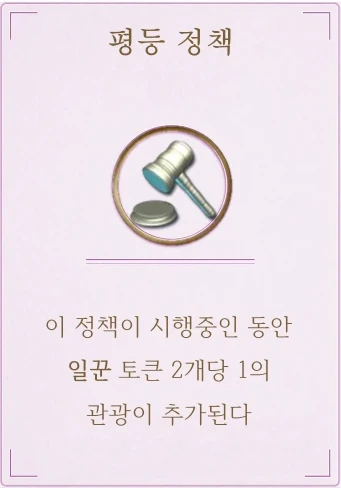
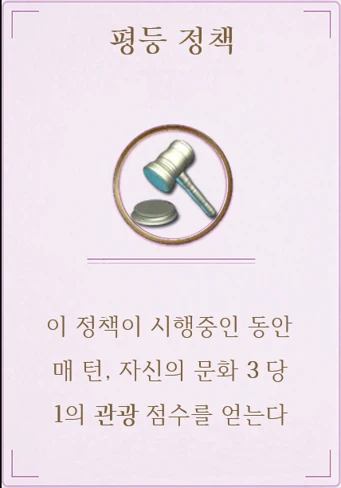
평등 정책: 문화 3당 관광 1 (카드 반영), 카드 그림 교체, AI 계산 수정
Claude-Session: https://claude.ai/code/session_01RAyYJg3yqsP1EQBtC7udPM

diff --git a/src/engine/__tests__/stage2.test.ts b/src/engine/__tests__/stage2.test.ts
@@ -1,5 +1,5 @@
 import { describe, expect, it } from 'vitest'
-import { apply, createGame, culture, happiness, tourism, computeYields, totalWorkers, RuleError, WONDER_CARDS, TECHS } from '..'
+import { apply, createGame, culture, happiness, tourism, computeYields, RuleError, WONDER_CARDS, TECHS } from '..'
 import type { GameState, TileCard } from '..'
 import { found, me, play, startGame, tile } from './helpers'
 
@@ -103,12 +103,11 @@ describe('정책', () => {
     expect(computeYields(me(kp)).science - computeYields(me(k)).science).toBe(5)
   })
 
-  it('평등: 일꾼 2개당 관광 1', () => {
+  it('평등: 문화 3당 관광 1', () => {
     const s = mod(solo(), (c) => {
       c.players[0].policy = 'equality'
-      c.players[0].cities[0].workers = 5
     })
-    expect(tourism(me(s))).toBe(2)
+    expect(tourism(me(s))).toBe(Math.floor(culture(me(s)) / 3))
   })
 
   it('세계화·냉각기술: 문화 3당 관광 1씩', () => {
@@ -116,7 +115,7 @@ describe('정책', () => {
     const third = Math.floor(culture(me(s)) / 3)
     expect(tourism(me(s))).toBe(2 * third)
     s = mod(s, (c) => (c.players[0].policy = 'equality'))
-    expect(tourism(me(s))).toBe(2 * third + Math.floor(totalWorkers(me(s)) / 2))
+    expect(tourism(me(s))).toBe(3 * third)
   })
 })
 

diff --git a/src/engine/ai.ts b/src/engine/ai.ts
@@ -104,7 +104,7 @@ function lateGame(p: Player, s?: GameState): 'apollo' | 'culture' | null {
   let viable = true
   if (s) {
     const rivals = s.players.filter((o) => o.id !== p.id && !o.eliminated && o.cities.length > 0)
-    const reach = 2 * Math.floor(culture(p) / 3) + Math.floor(totalWorkers(p) / 2) + AI_TUNE.cultureSlack
+    const reach = 3 * Math.floor(culture(p) / 3) + AI_TUNE.cultureSlack // 세계화·냉각기술·평등이 각각 문화 3당 1
     viable = rivals.length > 0 && Math.max(...rivals.map((o) => culture(o))) < reach
   }
   const cultureOk = AI_TUNE.cultureRush > 0 && culturePath <= AI_TUNE.cultureRush && viable
@@ -249,7 +249,7 @@ function policyOrder(s: GameState, p: Player): Policy[] {
   const need = Math.max(cheapest, AI_TUNE.policyNeed)
   // 평등 한 번으로 관광이 상대의 문화를 넘어 탈락시킬 수 있으면 (아폴로 질주 중이어도) 평등
   if (p.policy !== 'equality') {
-    const gain = Math.floor(totalWorkers(p) / 2)
+    const gain = Math.floor(culture(p) / 3)
     const now = tourism(p)
     if (s.players.some((o) => o.id !== p.id && !o.eliminated && o.cities.length > 0 && culture(o) >= now && culture(o) < now + gain)) return ['equality', ...POLICY_PREFERENCE]
   }

diff --git a/src/engine/yields.ts b/src/engine/yields.ts
@@ -127,10 +127,10 @@ export function happiness(player: Player): number {
   return civ.happiness + luxuries.size + bonus
 }
 
-/** 턴당 관광: 평등(일꾼 2개당 1), 세계화·냉각기술(문화 3당 1), 루브르 +3, 에펠탑 +4 (프랑스는 불가사의 관광 2배). */
+/** 턴당 관광: 평등(문화 3당 1), 세계화·냉각기술(문화 3당 1), 루브르 +3, 에펠탑 +4 (프랑스는 불가사의 관광 2배). */
 export function tourism(player: Player): number {
   let t = 0
-  if (player.policy === 'equality') t += Math.floor(totalWorkers(player) / 2)
+  if (player.policy === 'equality') t += Math.floor(culture(player) / 3)
   for (const tech of TECHS) {
     if (!player.techs.includes(tech.id)) continue
     for (const e of tech.effects) {

diff --git a/docs/rules.md b/docs/rules.md
@@ -446,7 +446,7 @@
 
   합리주의         시행 중에는 매 차례 과학 3을 얻습니다
 
-  평등             시행 중에는 일꾼 2개당 관광 1을 얻습니다
+  평등             시행 중에는 매 턴 자신의 문화 3당 관광 1을 얻습니다
 
   외교             고를 때마다 내 원래 타일 위의 상대 위대한 장군 토큰
                    1개를 골라 파괴합니다
@@ -655,7 +655,7 @@
 
 관광 얻는 법
 
--   평등 정책: 일꾼 2개당 관광 1
+-   평등 정책: 매 차례 문화 3당 관광 1
 
 -   세계화: 매 차례 문화 3당 관광 1
 
